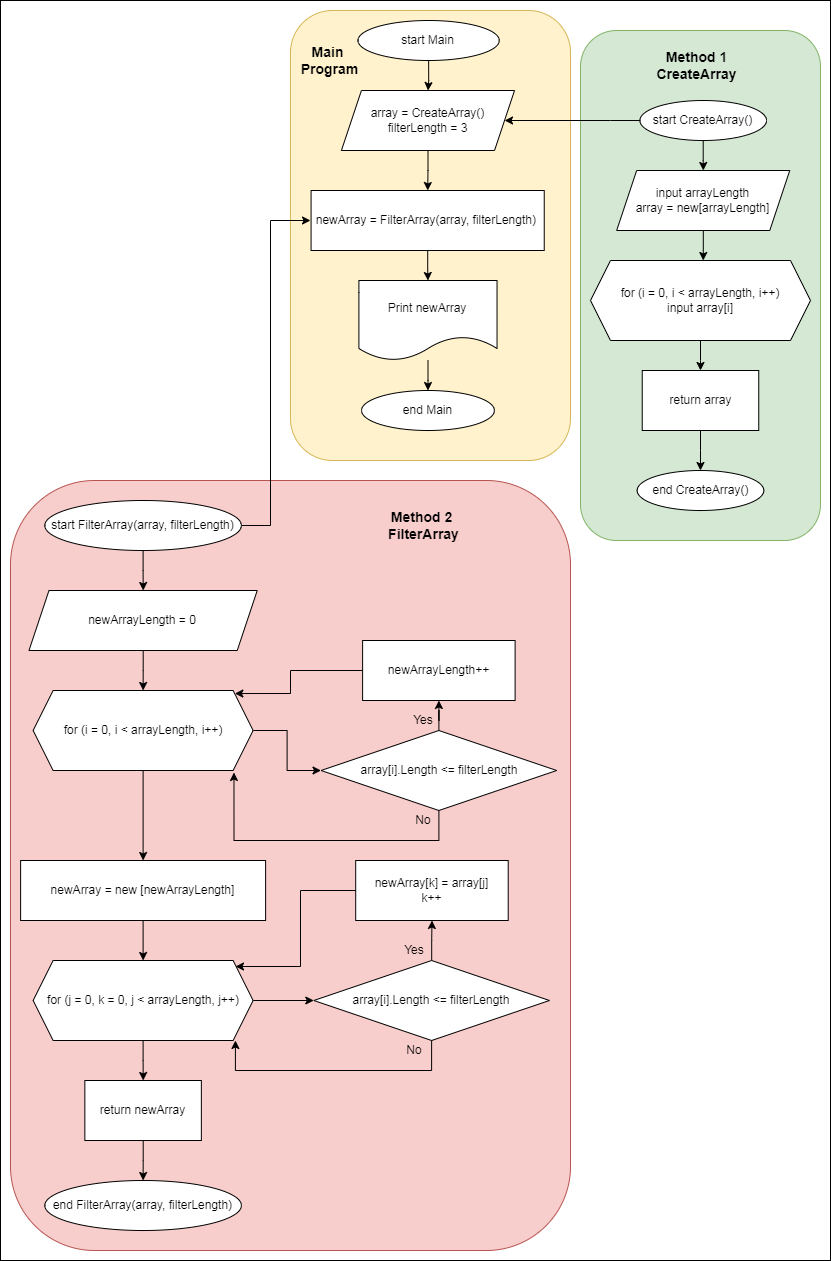
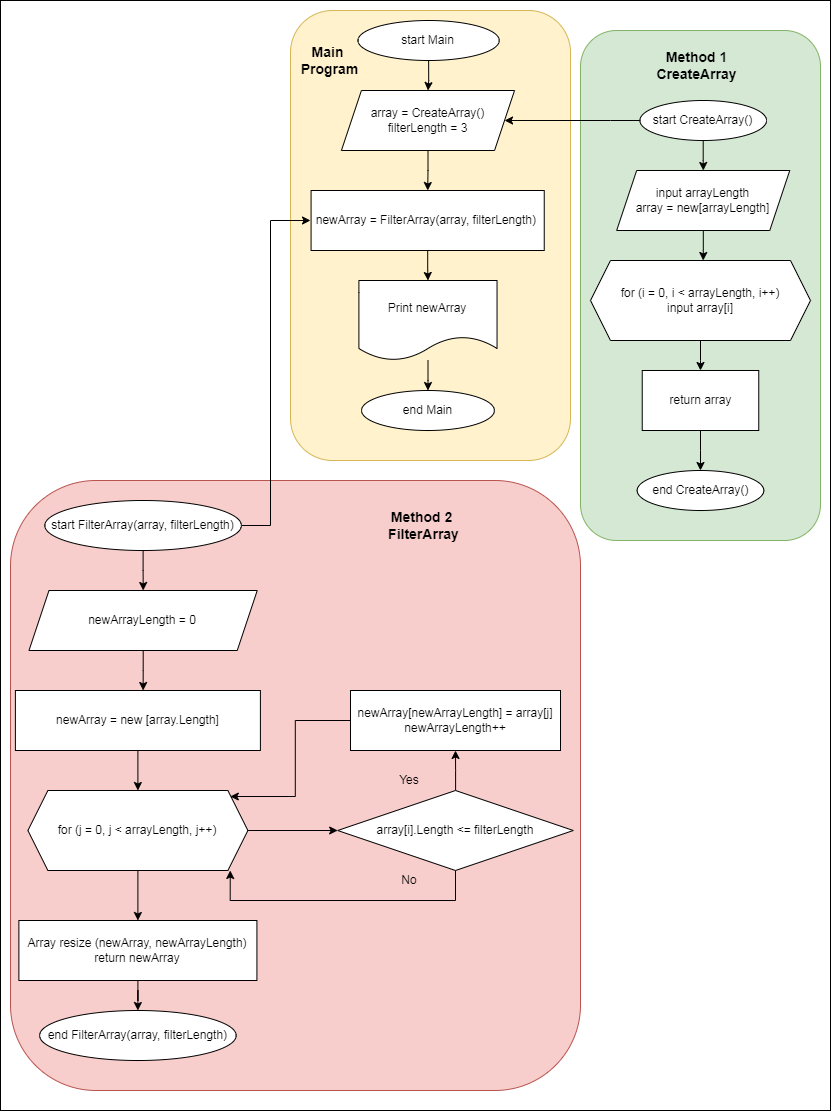
8 - modification: program, readme, diagram, example

diff --git a/Q1program/Program.cs b/Q1program/Program.cs
@@ -22,19 +22,15 @@ string[] CreateArray()
 string[] FilterArray(string[] array, int filterLength)
 {
     int newArrayLength = 0;
-    foreach (string i in array)
+    string[] newArray = new string[array.Length];
+    for (int j = 0; j < array.Length; j++)
     {
-        if (i.Length <= filterLength) newArrayLength++; 
-    }
-    string[] newArray = new string[newArrayLength];
-    for (int j = 0, k = 0; j < array.Length; j++)
-    {
-        string element = array[j];
-        if (element.Length <= filterLength)
+        if (array[j].Length <= filterLength)
         {
-            newArray[k] = array[j];
-            k++;
+            newArray[newArrayLength] = array[j];
+            newArrayLength++;
         } 
     }
+    Array.Resize(ref newArray, newArrayLength);
     return newArray;
 }

diff --git a/README.MD b/README.MD
@@ -12,10 +12,10 @@
 ## 2. Напишем метод, берущий исходный массив и преобразующий его в выходной массив того же типа в соответствии с требуемыми условиями задачи.
 
  * Метод с типом string[] и двумя параметрами в виде массива с типом string[] и переменной 'длина строкового элемента' с типом int, где мы фильтруем строковые элементы по их длине не более второго параметра (в нашем случае 3). 
- * Поскольку мы заранее не знаем длину выходного массива, сначала придется посчитать с помощью цикла количество удовлетворяющих условию элементов в исходном массиве. 
- * Затем создать выходной массив требуемой длины. 
- * Далее с помощью цикла с двумя счетчиками записать в него элементы исходного массива, удовлетворяющие условию задачи. 
- * Вернуть выходной массив. 
+ * Поскольку мы заранее не знаем длину выходного массива, создадим его с длиной равной исходному массиву.
+ * Далее с помощью цикла запишем в него элементы исходного массива, удовлетворяющие условию задачи.
+ * Затем обрежем длину выходного массива до количества записанных туда элементов, удовлетворяющих условию задачи. 
+ * Вернем выходной массив. 
 
 ## 3. Вызовем методы 1 и 2 в основной программе.
 
